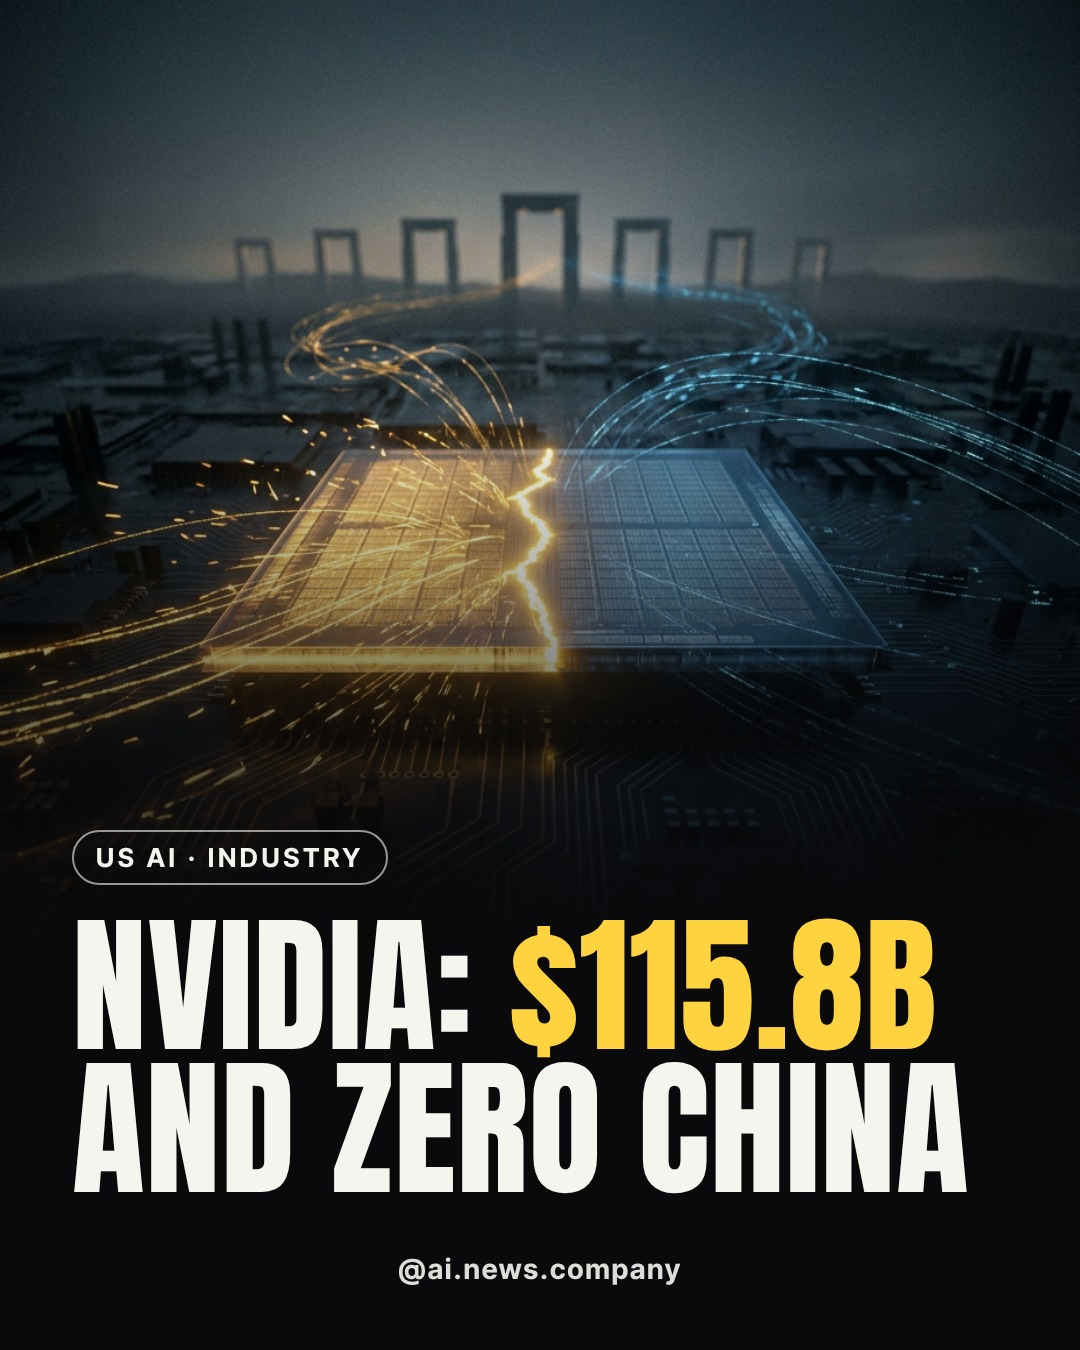
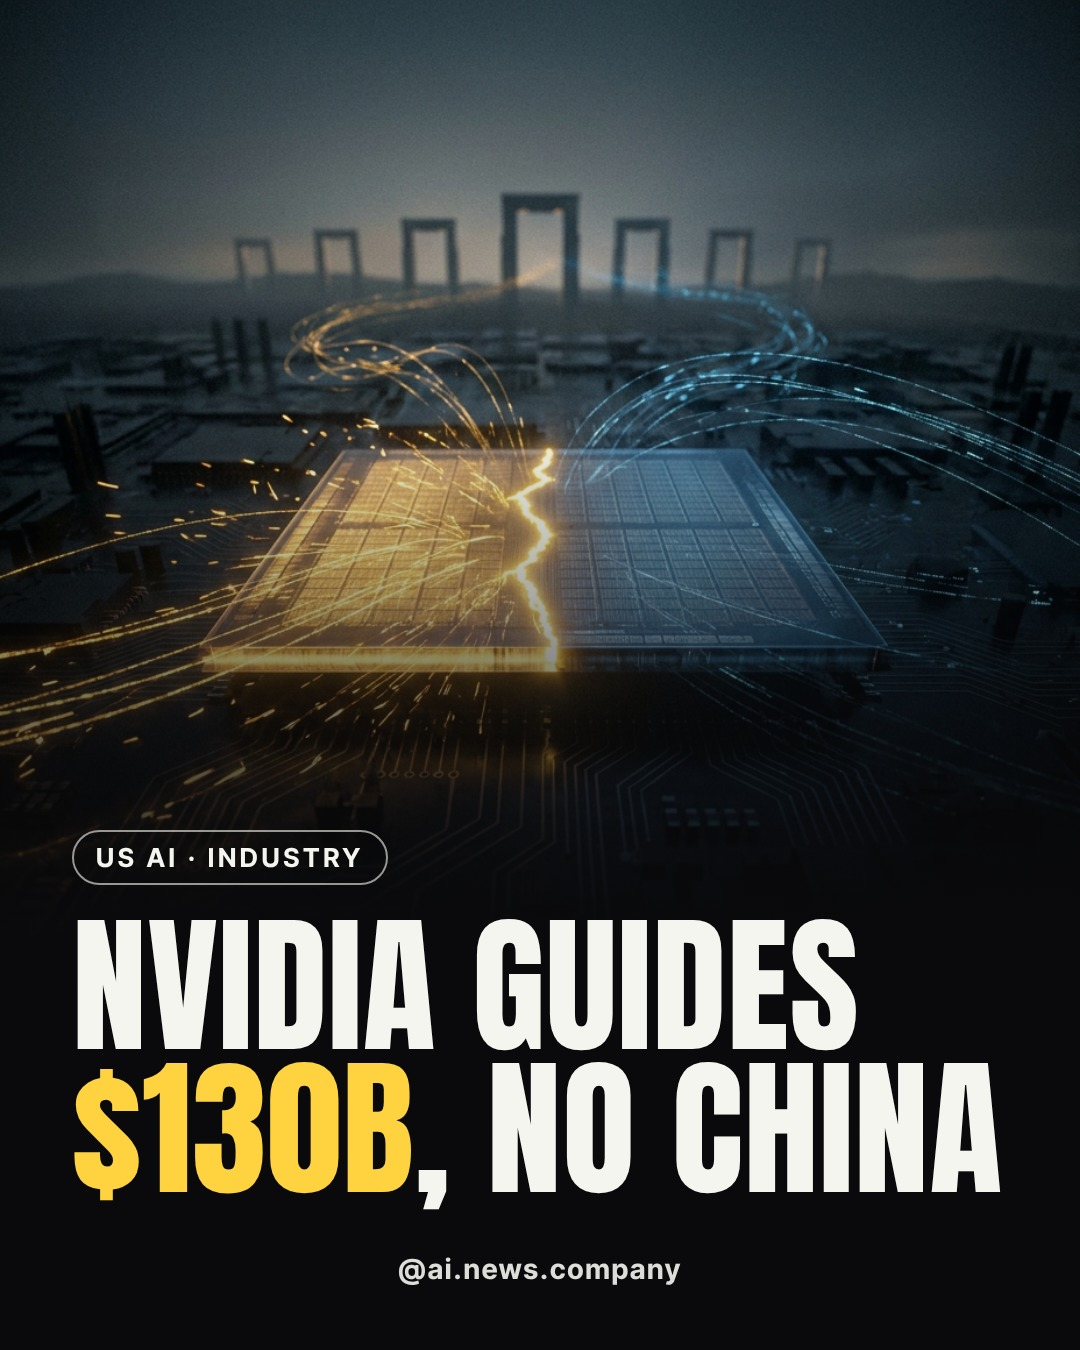
wip: round-2 post fixes, round-1 reviews
Claude-Session: https://claude.ai/code/session_01HGJzPPr47d44UDrrrxH55g

Changed region(s): [[0.0611, 0.6533, 0.9472, 0.9022]]

diff --git a/ops/reviews/2026-11-18-nvidia-round1/hook.md b/ops/reviews/2026-11-18-nvidia-round1/hook.md
@@ -1,0 +1,28 @@
+# Hook review: 2026-11-18-nvidia-q3-china-exit
+
+Verdict: PASS, score 7/10, better_option: null
+
+Chosen hook (option 0): "NVIDIA: $115.8B AND ZERO CHINA"
+
+## Scores
+- Clear in under 2 seconds: 8. Short, two lines, big type, the gold number stands out. The cover image (a chip split into a bright half and a cold half) supports the "split" idea.
+- Curiosity: 8. A record number set beside "zero China" raises the question of how both can be true.
+- Concrete number or name: 9. It has both Nvidia and $115.8B.
+- Promise the slides keep: 6-7. Slide 2 has the $115.8B record quarter. Slides 3-4 cover "no China", the H200 exit and the new rules. Caveat: "ZERO CHINA" is broader than the source. The articles say Nvidia is not assuming any China Data Center compute revenue in next quarter's outlook. They do not say all China revenue is zero. The $115.8B is the past quarter and the zero is guidance, so the hook merges two time frames. Slide 3's title "Next quarter: no China" and the body text qualify it correctly, so I rate it an acceptable compression and not a broken promise.
+- Reader stake: 2. It is about a company and a market, with no effect on the reader. That is fine, because the other criteria are strong.
+
+## Hook types
+- Option 0, "number": honest.
+- Option 1, "claim": honest.
+- Option 2, "myth-flip": weak label. "Record quarter, zero China" is a contrast, not a flip of a common belief. This is a minor note.
+- Option 3, "number": honest ($44B), but it is a Jefferies forecast shown without attribution.
+- No option is reader-impact. `hook_pick_reason` opens with "No reader-impact hook:" and gives an honest reason (the articles state no effect on ordinary readers). It also explains why the other three options were rejected, which is accurate.
+
+## Comparison
+- Option 1, "NVIDIA'S H200 EXITS CHINA": accurate, but the reader needs the explainer to know what H200 is, and it has no number. Weaker.
+- Option 2, "RECORD QUARTER, ZERO CHINA": no name or number up front. Weaker.
+- Option 3, "NVIDIA'S $44B CHINA RULE RISK": the figure is a forecast, and the slide 4 range is $44B to $62B, so the hook picks the low end. Weaker and riskier.
+- Option 0 is the best of the four.
+
+## Optional fix (not required)
+To shut the "zero" overclaim, consider "AND ZERO CHINA GUIDANCE" if it fits the cover. Otherwise keep it as is, since slide 3 states the scope in its first line.

diff --git a/ops/reviews/2026-11-18-nvidia-round1/brand.md b/ops/reviews/2026-11-18-nvidia-round1/brand.md
@@ -1,0 +1,28 @@
+# Brand-safety review: 2026-11-18-nvidia-q3-china-exit
+
+Verdict: PASS
+
+Reviewed post.json, cover.png and slides 01-07.
+
+## Checks
+- Cover image: abstract AI-generated chip over a circuit plain with gate silhouettes. No person, no recognizable logo, no readable text. Pass.
+- Reference-account copying: nothing found. The wording is original and drawn from the two cited sources. The layout is the standard template. Pass.
+- Outlet credit: `caption` and `threads_caption` both name NVIDIA Newsroom and TechCrunch with article titles. Slide 7 lists both. Pass.
+- Affiliate, referral or tracking links, and sponsored-tool mentions: none in the slides, caption or threads_caption. The only URLs are in `sources`, and they are plain article links. Pass.
+- Colors and fonts: ink background, paper and muted text, a single yellow accent, Anton for the cover headline and the outlined slide numbers, Inter Tight elsewhere. This matches DESIGN.md. The cover image has some blue light in its content. That is image content, not a template color. Pass.
+- Tone: neutral and attributed. Slide 6 labels Kress's no-impact view as "Nvidia's own claim" and Jefferies' figure as "a forecast, not a result". Nothing mocks a person, company or country. Pass.
+- Hook: "NVIDIA: $115.8B AND ZERO CHINA" is supported by slide 2 (record revenue) and slide 3 (guidance assumes no China Data Center compute revenue). It is not clickbait. See the note below.
+
+## The TechCrunch title that mentions an executive's ouster
+Acceptable. Reasons:
+- The title is cited verbatim, as CLAUDE.md requires (outlet name plus article title). Changing it would misattribute the source.
+- Our own copy never asserts or repeats the ouster claim. It says only "Acting CEO Colette Kress", which the NVIDIA release backs with "interim CEO".
+- A published headline appearing in a source line does not mock or defame anyone. It is a neutral citation.
+
+Optional, not blocking: the cited title raises a question that the slides do not answer. If the writer wants to avoid that, they could drop TechCrunch's wording from any body copy. The slides already do this.
+
+## Notes (non-blocking)
+- The cover says "ZERO CHINA". Slide 3 clarifies that this is a guidance assumption about Data Center compute revenue. The hook is accurate but compressed.
+
+## Issues
+None blocking.

diff --git a/ops/reviews/2026-11-18-nvidia-round1/fact.md b/ops/reviews/2026-11-18-nvidia-round1/fact.md
@@ -1,0 +1,16 @@
+# Fact check: 2026-11-18-nvidia-q3-china-exit — FAIL
+
+Both sources opened with scripts/article.mjs (NVIDIA Newsroom, TechCrunch).
+
+## Issues
+1. Slide 1 title "A record $115.8B quarter", caption "record $115.8B quarter", threads_caption "record $115.8B quarter", hook_options and pick reason ("record revenue"): neither article calls the quarter a record. NVIDIA's release gives only the figures ($115.8B, up 20% q/q, up 103% y/y). The only "record" in the release refers to a quantum simulation and to shareholders of record. Unsupported claim. Fix: drop "record" (e.g. "A $115.8B quarter") in the slide title, caption and threads_caption.
+2. Cover "NVIDIA: $115.8B AND ZERO CHINA" and slide 2 title "Next quarter: no China": overstated. The source says only that Nvidia is "not assuming any Data Center compute revenue from China" in its Q4 outlook. That is not zero China revenue or zero China business. The slide 2 body is accurate, but the cover and title drop the qualifier. Fix: use a headline that keeps the scope, e.g. "NVIDIA GUIDES $130B, NO CHINA DATA CENTER" (check it fits), and slide 2 title "No China data center compute in outlook".
+3. Slide 3 (minor): "US rules allowed it to sell there through a loophole in the ban" is a fair paraphrase of TechCrunch's "controversial loophole", but the claim belongs to TechCrunch, which the slide does attribute. No change needed.
+
+## Verified OK
+- Quarter ended Oct. 25 (2026); $115.8B; up 103% y/y; up 20% q/q; Data Center $107.6B, up 110% y/y.
+- Q4 outlook $130.0B plus or minus 3%; no China Data Center compute assumed.
+- Kress: interim CEO per Nvidia, "acting CEO" per TechCrunch. Both are fine. Said Tuesday that H200 sales in China end.
+- Rules issued Monday bar advanced US chips from foreign data centers serving Chinese customers remotely.
+- Jefferies $44B to $62B "might trim" from data center revenue next year. Kress said the backlog for chips like Vera Rubin means no impact on top-line revenue. Slide 5 attributes this to Nvidia and calls the Jefferies figure a forecast.
+- Source titles, outlets and dates (Nov 17, 2026) match. The sources slide (07) matches.
